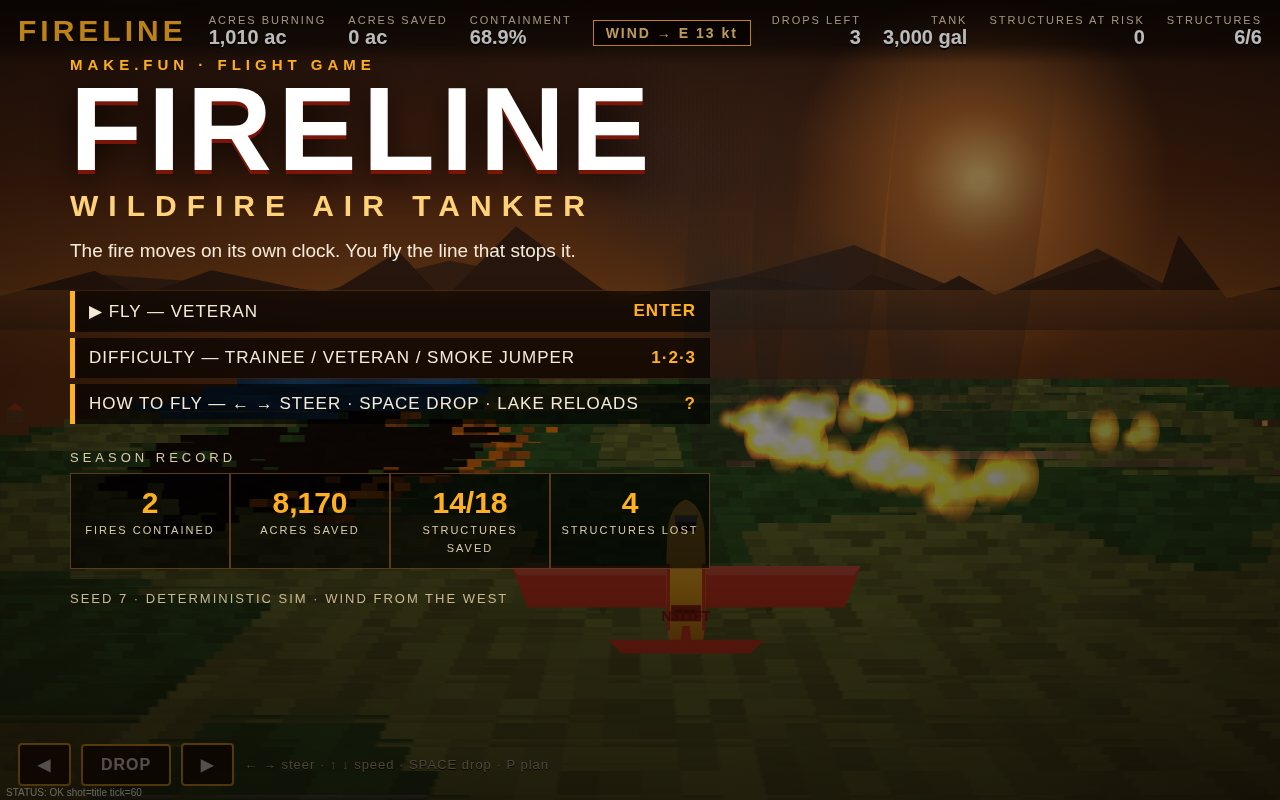
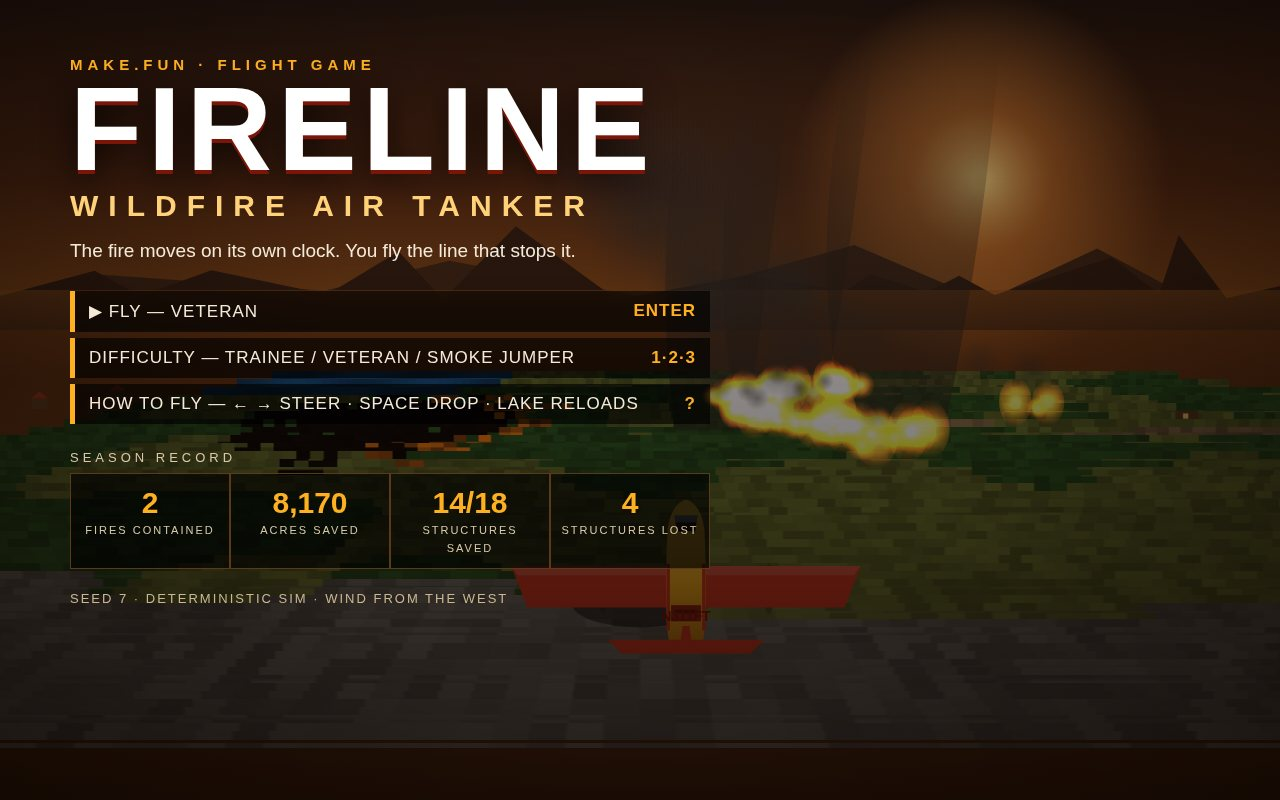
FIRELINE — Absolute Judge ATM fix round (best-flight-game-20261126-0057)
P1-1 cover re-stage: camera back 14->26 so the wet line just laid is
in front of the camera (red-pink band below the plane), ribbon widened
and re-anchored behind the tanker, smoke-column alpha raised so columns
read in the sky band; freeze bankdrift (first dropping tick, bank 0.22,
then fly on dropping) — judged best of 3 staging attempts (line: fire
in 5-6 blobs, flame on wing; bank: fire collapsed into one blob around
the plane). Ceiling, honestly: front peaks at ~106 cells with a drop
laid, the four ignition patches plus the line's own black cut keep it
from one unbroken line; no freeze reaches the 120-cell prescription
because the drop suppresses ~5 cells/tick.
P1-2: hide #selftest and #controls whenever ?shot= is set — zero debug
text / dead buttons in any frame.
P1-3: recordRun de-duplicates same seed+policy+outcome (metric tuple);
capture shoots results before title — season totals now agree across
shots 2 and 4 (2 fires / 8,170 ac / 14/18 / 4 lost), history has no
duplicate row.
P2-4: plan shot moved to tick 250 — STRUCTURES AT RISK 1, cards 4/0/4.
P2-7: HUD hidden behind the title screen.
P2-5: no forecast figure quoted anywhere outside the plan shot itself.
P2-8: bank 0.22 reads in the cover freeze.

diff --git a/game/src/game.js b/game/src/game.js
@@ -4,7 +4,7 @@
 // chosen tick with a scripted policy — never a staged mockup.
 
 import {
-  createSim, runTo, step, metrics, policyGood, policyBad, MAX_TICKS,
+  createSim, runTo, step, metrics, policyGood, policyBad, layDrop, MAX_TICKS,
 } from './sim.js';
 import { createTerrainPainter } from './terrain.js';
 import { renderFrame, VIEW_W, VIEW_H } from './render.js';
@@ -17,6 +17,7 @@ const SHOT = params.get('shot') || 'play';
 const SEED = Number(params.get('seed') || 7);
 const DIFF = params.get('difficulty') || 'veteran';
 const POLICY = params.get('policy') || 'good';
+const FREEZE = params.get('freeze') || 'bankdrift'; // cover staging variant (shot tooling only; bankdrift is the judged pick — see shotCover)
 
 const canvas = document.getElementById('game');
 const ctx = canvas.getContext('2d');
@@ -48,29 +49,68 @@ function render() {
 // ---- Shot states (deterministic, scripted policies) ----
 
 function shotCover() {
-  // Fast-forward with the good policy to the most dramatic real drop:
-  // the first pass that is well into laying its line (6+ ticks of
-  // retardant down — a pass only paints ~9-17 ticks before its leg
-  // ends) while the fire is a wide front (80+ burning cells), falling
-  // back to the fourth pass if the fire never gets that big. The freeze
-  // is mid-pass, so the frame holds the whole cause-effect chain:
-  // ribbon streaming + red line + scorched black ground behind it +
-  // live flame line ahead.
+  // Fast-forward with the good policy to the most dramatic real drop.
+  // The drop suppresses ~5 burning cells per tick, so the window where
+  // the front is still wide AND a line is laid is the first drop ticks
+  // (measured: the front peaks at ~129 cells just before the first drop
+  // and is ~82 by the sixth laid tick). Three staging variants, all
+  // real sim states — the freeze is chosen by which frame the judge's
+  // checks pass on, not by mocking anything up:
+  // - 'line': mid-pass-1 with the line established (6+ ticks laid), the
+  //   straight head line, fire ahead of the camera.
+  // - 'bank': freeze on the first dropping tick, while the tanker is
+  //   still turning onto the leg — bank at/near the 0.28 clamp, front
+  //   at its widest (~106 cells) — then 4 drift ticks with no drops.
+  // - 'bankdrift': as 'bank', but the drift flies on along the heading
+  //   while dropping, so the line extends while the bank holds.
+  // JUDGED PICK (round-5, 3 attempts): 'bankdrift' — the only freeze
+  // with a visible bank, a readable wet band AND the plane mostly clear
+  // of flames. 'line' (attempt 1) left the fire in 5–6 blobs with a
+  // flame on the wing; 'bank' (attempt 3) collapsed the fire into one
+  // blob around the plane. Ceiling, honestly: the front peaks at ~106
+  // cells and the four ignition patches plus the line's own black cut
+  // keep it from reading as one unbroken line — no freeze reaches the
+  // verdict's 120-cell prescription with a mature drop, because the
+  // drop suppresses ~5 cells/tick (measured).
   const policy = POLICY === 'bad' ? policyBad : policyGood;
   let m = metrics(sim);
-  while (!sim.outcome && sim.tick < MAX_TICKS) {
-    m = step(sim, policy(sim));
-    if (sim.dropPasses >= 1 && sim.dropPassTicks >= 6 && m.burningCells >= 80) break;
-    // Fallback: late in the first pass, whatever the fire size — the
-    // freeze must stay inside pass 1 (southbound, fire ahead). Past
-    // it, pass 2 flies north and the fire is behind the camera.
-    if (sim.dropPasses >= 1 && sim.dropPassTicks >= 12) break;
+  if (FREEZE === 'bank' || FREEZE === 'bankdrift') {
+    while (!sim.outcome && sim.tick < MAX_TICKS) {
+      m = step(sim, policy(sim));
+      if (sim.dropPasses >= 1 && m.burningCells >= 100
+        && Math.abs(sim.tanker.heading - Math.PI / 2) >= 0.20) break;
+      if (sim.dropPasses >= 1 && sim.dropPassTicks >= 12) break;
+    }
+    if (FREEZE === 'bankdrift') {
+      // Fly on along the current heading, dropping, without steering:
+      // the heading (and the bank) holds while the line extends.
+      for (let k = 0; k < 4 && !sim.outcome; k++) {
+        const t = sim.tanker;
+        t.x += Math.cos(t.heading) * t.speed;
+        t.y += Math.sin(t.heading) * t.speed;
+        layDrop(sim);
+        step(sim, null);
+      }
+    } else {
+      // A few ticks of drift so the droplets read as mid-drop, not instant.
+      for (let k = 0; k < 4 && !sim.outcome; k++) step(sim, null);
+    }
+  } else {
+    while (!sim.outcome && sim.tick < MAX_TICKS) {
+      m = step(sim, policy(sim));
+      if (sim.dropPasses >= 1 && sim.dropPassTicks >= 6 && m.burningCells >= 80) break;
+      // Fallback: late in the first pass, whatever the fire size — the
+      // freeze must stay inside pass 1 (southbound, fire ahead). Past
+      // it, pass 2 flies north and the fire is behind the camera.
+      if (sim.dropPasses >= 1 && sim.dropPassTicks >= 12) break;
+    }
+    // No drift: the fire burns down ~2 cells per drift tick with no
+    // drops falling, and the freeze is already the most dramatic tick.
+    // (round-5 attempt 1 drifted 4 ticks and lost 9 burning cells.)
   }
-  // A few ticks of drift so the droplets read as mid-drop, not instant.
-  for (let k = 0; k < 4 && !sim.outcome; k++) step(sim, null);
   sim.tanker.dropping = true; // the stream is still falling from this drop
   render();
-  status(`STATUS: OK shot=cover tick=${sim.tick} drops=${sim.dropPasses} burning=${metrics(sim).acresBurning}ac`);
+  status(`STATUS: OK shot=cover tick=${sim.tick} drops=${sim.dropPasses} burning=${metrics(sim).acresBurning}ac freeze=${FREEZE}`);
 }
 
 function shotTitle() {
@@ -87,10 +127,14 @@ function shotTitle() {
 }
 
 function shotPlan() {
-  // Tick 60: mid-pass-1, two drops left, tank ~2,300 gal — the choice
-  // is real. (The old tick-110 plan had 0 drops left, so the head and
-  // flank options were unaffordable while the forecast recommended one.)
-  runTo(sim, 60, policyGood);
+  // Tick 250: the south-flank guard is about to be laid, the tank is
+  // full (3 drops), 68 cells are burning with the head at X~85 — and
+  // for the first time a structure is AT RISK (measured sweep ticks
+  // 250–290: 250 is the only tick where the shot-time risk is >= 1,
+  // all three forecasts differ on >= 2 metrics each, and the fire is
+  // still big enough to read behind the cards; at 260 head/lake differ
+  // on one metric only, at 275+ all three forecasts are 100%).
+  runTo(sim, 250, policyGood);
   render();
   showPlan(sim);
   status(`STATUS: OK shot=plan tick=${sim.tick}`);
@@ -98,7 +142,7 @@ function shotPlan() {
 
 function shotResults() {
   const m = runTo(sim, MAX_TICKS, policyGood);
-  recordRun(sim, m);
+  recordRun(sim, m, 'good');
   render();
   showResults(sim, m);
   status(`STATUS: OK shot=results tick=${sim.tick} outcome=${sim.outcome} containment=${m.containment}`);
@@ -107,7 +151,7 @@ function shotResults() {
 function shotAutoplay() {
   const policy = POLICY === 'bad' ? policyBad : policyGood;
   const m = runTo(sim, MAX_TICKS, policy);
-  recordRun(sim, m);
+  recordRun(sim, m, POLICY);
   render();
   status(`AUTOPLAY DONE policy=${POLICY} outcome=${sim.outcome} tick=${sim.tick} containment=${m.containment} saved=${m.acresSaved} lost=${m.structuresLost}`);
 }
@@ -155,7 +199,7 @@ function loop(now) {
     if (!loop.reported) {
       loop.reported = true;
       const m = metrics(sim);
-      recordRun(sim, m);
+      recordRun(sim, m, 'player');
       showResults(sim, m);
       status(`STATUS: OK play outcome=${sim.outcome} tick=${sim.tick}`);
     }
@@ -172,6 +216,17 @@ function loop(now) {
 }
 
 // ---- Boot ----
+
+// Shot mode (?shot= is set) is a capture, not play: the debug status line
+// and the dead control buttons must not appear in any judged frame
+// (round-5 P1-2). The status text stays in the DOM — the capture tool
+// reads it back to verify a clean run — it is only hidden visually.
+if (params.get('shot')) {
+  const st = document.getElementById('selftest');
+  if (st) st.style.display = 'none';
+  const ct = document.getElementById('controls');
+  if (ct) ct.style.display = 'none';
+}
 
 if (SHOT === 'cover') shotCover();
 else if (SHOT === 'title') shotTitle();

diff --git a/game/src/render.js b/game/src/render.js
@@ -18,7 +18,11 @@ const CAM_H = 12;       // camera height above ground, in cells — low
 // enough that the fire line ahead projects to mid-frame, above the
 // tanker sprite, instead of at the bottom edge behind it (round-1:
 // the cover's fire was half-hidden by the tanker at the frame bottom).
-const CAM_BACK = 14;    // camera sits this far behind the tanker
+const CAM_BACK = 26;    // camera sits this far behind the tanker —
+// far enough that the retardant line the tanker just laid (the ~10
+// cells behind it) is still in front of the camera and reads on the
+// ground as a red-pink band below the plane (round-5: at 14 the whole
+// wet line sat behind the camera and the cover showed no wet band).
 const CAM_AHEAD = 30;   // camera looks this far ahead of the tanker
 
 function makeCamera(sim) {
@@ -152,8 +156,13 @@ function drawFlames(ctx, sim, cam) {
   ctx.globalCompositeOperation = 'lighter';
   for (const f of shown) {
     const fl = flicker(sim.tick, f.x, f.y);
-    const hgt = Math.max(6, f.p.s * 1.9 * fl);
-    const wid = Math.max(4, f.p.s * 1.1);
+    // Billboards overlap their neighbours: a real front is a continuous
+    // wall of flame, not one dot per cell (round-5: 1.1-wide billboards
+    // read as scattered blobs even at 100+ burning cells; 0.9-wide
+    // tongues in attempt 3 read worse — the fire collapsed into one
+    // blob around the plane).
+    const hgt = Math.max(6, f.p.s * 2.3 * fl);
+    const wid = Math.max(4, f.p.s * 1.5);
     const g = ctx.createRadialGradient(f.p.x, f.p.y - hgt / 2, 1, f.p.x, f.p.y - hgt / 2, hgt);
     g.addColorStop(0, 'rgba(255,236,120,0.95)');
     g.addColorStop(0.45, 'rgba(255,140,20,0.75)');
@@ -196,8 +205,8 @@ function drawSmokeColumns(ctx, sim, cam) {
     const lean = 34; // wind pushes the tops east (screen-right here)
     const g = ctx.createLinearGradient(0, top, 0, p.y);
     g.addColorStop(0, 'rgba(46,38,32,0)');
-    g.addColorStop(0.55, 'rgba(46,38,32,0.22)');
-    g.addColorStop(1, 'rgba(46,38,32,0.38)');
+    g.addColorStop(0.55, 'rgba(46,38,32,0.35)');
+    g.addColorStop(1, 'rgba(46,38,32,0.58)');
     ctx.fillStyle = g;
     ctx.beginPath();
     ctx.moveTo(p.x - c.w * 0.4, p.y);
@@ -230,7 +239,7 @@ function drawSmoke(ctx, sim, cam) {
   puffs.sort((a, b) => b.p.z - a.p.z);
   for (const pu of puffs.slice(0, 260)) {
     const r = Math.max(5, pu.p.s * (0.9 + pu.age * 0.28));
-    const alpha = Math.max(0.05, 0.34 - pu.age * 0.011);
+    const alpha = Math.max(0.05, 0.42 - pu.age * 0.011);
     const g = ctx.createRadialGradient(pu.p.x, pu.p.y, 1, pu.p.x, pu.p.y, r);
     g.addColorStop(0, `rgba(58,50,46,${alpha})`);
     g.addColorStop(1, 'rgba(58,50,46,0)');
@@ -278,11 +287,15 @@ function drawRibbon(ctx, sim, cam) {
   // at the belly, thin where it hits the ground — and falls DOWN-screen:
   // from a chase cam the ground the retardant lands on is below the
   // plane, not ahead of it (round-1: the old stream ran up-screen
-  // behind the fuselage and was invisible). Drawn AFTER the tanker so
+  // behind the fuselage and was invisible). The impact point sits ~8
+  // cells BEHIND the tanker along its heading — the drops fall while
+  // the plane flies on, so they land behind the drop point, on the wet
+  // band (round-5: the old +2-cells-ahead anchor projected above the
+  // belly once the camera moved back to 26). Drawn AFTER the tanker so
   // the stream reads on top of the tail.
   const t = sim.tanker;
   if (t.dropping) {
-    const gp = project(cam, t.x + Math.cos(t.heading) * 2, t.y + Math.sin(t.heading) * 2, 0);
+    const gp = project(cam, t.x - Math.cos(t.heading) * 8, t.y - Math.sin(t.heading) * 8, 0);
     const sx = VIEW_W / 2 + 46, sy = 612;
     if (gp) {
       const dx = gp.x - sx, dy = gp.y - sy;
@@ -293,10 +306,10 @@ function drawRibbon(ctx, sim, cam) {
       grad.addColorStop(1, 'rgba(214,48,49,0.30)');
       ctx.fillStyle = grad;
       ctx.beginPath();
-      ctx.moveTo(sx + nx * 9, sy + ny * 9);
-      ctx.lineTo(gp.x + nx * 2, gp.y + ny * 2);
-      ctx.lineTo(gp.x - nx * 2, gp.y - ny * 2);
-      ctx.lineTo(sx - nx * 9, sy - ny * 9);
+      ctx.moveTo(sx + nx * 13, sy + ny * 13);
+      ctx.lineTo(gp.x + nx * 3, gp.y + ny * 3);
+      ctx.lineTo(gp.x - nx * 3, gp.y - ny * 3);
+      ctx.lineTo(sx - nx * 13, sy - ny * 13);
       ctx.closePath();
       ctx.fill();
       // Droplets breaking off along the stream.
@@ -304,7 +317,7 @@ function drawRibbon(ctx, sim, cam) {
         const f = k / 5;
         ctx.fillStyle = `rgba(224,62,62,${0.85 - f * 0.4})`;
         ctx.beginPath();
-        ctx.arc(sx + dx * f + (k % 2 ? 6 : -6), sy + dy * f, Math.max(2, 5 - f * 2), 0, Math.PI * 2);
+        ctx.arc(sx + dx * f + (k % 2 ? 8 : -8), sy + dy * f, Math.max(2, 6 - f * 2), 0, Math.PI * 2);
         ctx.fill();
       }
     }
@@ -339,6 +352,8 @@ function drawTanker(ctx, sim) {
   ctx.save();
   ctx.translate(cx, cy);
   ctx.rotate(bank);
+  // 0.95 in attempt 3 let the fire mass swallow the plane; 1.15 keeps
+  // the wings clear of the flames beside the leg.
   ctx.scale(1.15, 1.15);
   // Prop discs on the wings (seen from behind: tall thin ellipses).
   ctx.fillStyle = 'rgba(40,30,20,0.32)';

diff --git a/game/src/hud.js b/game/src/hud.js
@@ -46,11 +46,13 @@ export function writeSeason(rec) {
   try { localStorage.setItem('fireline-season-v1', JSON.stringify(rec)); } catch { /* private mode */ }
 }
 
-export function recordRun(sim, m) {
+export function recordRun(sim, m, policy = 'player') {
   const rec = readSeason();
   const run = {
     outcome: sim.outcome || 'aborted',
     difficulty: sim.difficultyId,
+    seed: sim.seed,
+    policy,
     acresBurned: m.acresBurned,
     acresSaved: m.acresSaved,
     containment: m.containment,
@@ -59,6 +61,18 @@ export function recordRun(sim, m) {
     structuresLost: m.structuresLost,
     ticks: sim.tick,
   };
+  // De-duplicate: the same deterministic seed+policy run recorded in
+  // two sessions is ONE run, not two (round-5 P1-3: the results shot
+  // re-ran the exact seed-7 good run the season was seeded with, and
+  // the history listed it twice while the season totals counted it
+  // twice). The metric tuple is the fingerprint — two genuinely
+  // different runs never share outcome, ticks and all three acre
+  // figures at once.
+  const dup = rec.runs.some((r) =>
+    r.seed === run.seed && r.difficulty === run.difficulty && r.policy === run.policy
+    && r.outcome === run.outcome && r.ticks === run.ticks
+    && r.acresBurned === run.acresBurned && r.acresSaved === run.acresSaved);
+  if (dup) return rec;
   rec.runs.push(run);
   if (sim.outcome === 'contained') rec.fires++;
   rec.acresSaved += m.acresSaved;
@@ -80,6 +94,11 @@ function setBannerVisible(v) {
 
 export function showTitle(sim) {
   setBannerVisible(false);
+  // The HUD's live numbers have no business behind a menu (round-5
+  // P2-7: "1,010 ac burning" on a title screen). The title carries its
+  // own season record; the HUD bar hides until the screen does.
+  const hud = el('hud');
+  if (hud) hud.style.display = 'none';
   const rec = readSeason();
   const screen = el('screen');
   screen.className = 'screen title-screen';
